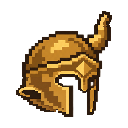
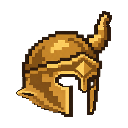
fix: 金・一本角の襟足と髪の接続を承認済みの形へ更新 (#131)

diff --git a/src/equipment-renderer.ts b/src/equipment-renderer.ts
@@ -6,6 +6,25 @@ interface ComposeOptions {
   mode?: "normal" | "ghost";
 }
 
+function drawHair(g: CanvasRenderingContext2D, hair: HTMLImageElement, item: Equipment): void {
+  const hairTop = figure.top + item.hairY;
+  if ("hairRoot" in item) {
+    const join = figure.ponytailJoinY;
+    const span = join - figure.ponytailRootY;
+    const { x, y } = item.hairRoot;
+    // Move only the root. The lower curl stays aligned with the original body.
+    g.save();
+    g.imageSmoothingEnabled = false;
+    g.transform(1, 0, -x / span, 1 - y / span, x * join / span, hairTop + y * join / span);
+    g.drawImage(hair, 0, 0, figure.width, join, 0, 0, figure.width, join);
+    g.restore();
+    g.drawImage(hair, 0, join, figure.width, hair.height - join,
+      0, hairTop + join, figure.width, hair.height - join);
+  } else {
+    g.drawImage(hair, 0, hairTop);
+  }
+}
+
 export async function composeEquipment(item: Equipment, options: ComposeOptions = {}): Promise<HTMLCanvasElement | null> {
   const { isCurrent = () => true, mode = "normal" } = options;
   const images = item.src === null
@@ -23,12 +42,23 @@ export async function composeEquipment(item: Equipment, options: ComposeOptions 
   if (item.src === null || mode === "ghost") {
     g.drawImage(images[0]!, 0, figure.top);
   } else {
-    g.drawImage(images[0]!, 0, figure.top + item.hairY);
+    drawHair(g, images[0]!, item);
     g.drawImage(images[1]!, 0, figure.top);
   }
   if (item.src !== null) {
     if (mode === "ghost") g.globalAlpha = .55;
     g.drawImage(images[images.length - 1]!, 0, 0);
+    if (mode === "normal" && "hairFrontClip" in item) {
+      // The rear rim sits behind this small section of the ponytail root.
+      // The rest of the helmet, including the cheek plate, remains in front.
+      g.save();
+      g.beginPath();
+      item.hairFrontClip.forEach(([x, y], index) => index ? g.lineTo(x, y) : g.moveTo(x, y));
+      g.closePath();
+      g.clip();
+      drawHair(g, images[0]!, item);
+      g.restore();
+    }
   }
   return result;
 }

diff --git a/src/equipment-data.ts b/src/equipment-data.ts
@@ -14,7 +14,7 @@ import hornedThumb from "./assets/equipment/thumbs/horned.png";
 import goldhornThumb from "./assets/equipment/thumbs/goldhorn.png";
 import blackredThumb from "./assets/equipment/thumbs/blackred.png";
 
-export const figure = { base, body, ponytail, top: 260, width: 1086, height: 1708 } as const;
+export const figure = { base, body, ponytail, top: 260, width: 1086, height: 1708, ponytailRootY: 405, ponytailJoinY: 540 } as const;
 export const equipmentThumbnailSize = { width: 128, height: 128 } as const;
 
 export const equipment = [
@@ -23,7 +23,13 @@ export const equipment = [
   { id: "purple", name: "黒金・紫の兜", detail: "紫の飾り毛と、金で縁取られた白い仮面。", src: purple, thumb: purpleThumb, hairY: 0 },
   { id: "goldred", name: "金・赤の兜", detail: "赤い飾り毛と金の面頬。", src: goldred, thumb: goldredThumb, hairY: -45 },
   { id: "horned", name: "銀・角付きの兜", detail: "下へ曲がる茶色の角と、耳・襟足まで覆う一体の銀板。", src: horned, thumb: hornedThumb, hairY: -45 },
-  { id: "goldhorn", name: "金・一本角の兜", detail: "先が右へ曲がる短い一本角と、襟足を覆う低く反った縁。", src: goldhorn, thumb: goldhornThumb, hairY: -40 },
+  {
+    id: "goldhorn", name: "金・一本角の兜",
+    detail: "先が右へ曲がる短い一本角と、襟足を覆う浅く反った縁。",
+    src: goldhorn, thumb: goldhornThumb, hairY: -40,
+    hairRoot: { x: 50, y: 30 },
+    hairFrontClip: [[350, 630], [430, 630], [450, 660], [455, 690], [445, 720], [390, 735], [350, 710]],
+  },
   { id: "blackred", name: "黒・赤い鶏冠の兜", detail: "高い赤の鶏冠状の飾りと、黒い面頬。", src: blackred, thumb: blackredThumb, hairY: 0 },
 ] as const;
 

diff --git a/docs/01_ゲーム企画・基本設計書.md b/docs/01_ゲーム企画・基本設計書.md
@@ -16,7 +16,7 @@
 - 着脱版の保存対象は人物と兜を合成した1086×1708の透過PNG。兜なしも同じキャンバスで、飾りが収まるよう上側に260pxの余白を持つ。
 - 着脱版の金・一本角は、採用した短い角と、銀・角付きに合わせた頭部サイズ・その後の約4%拡大を反映する。黒・赤は鶏冠を高くしたパーツを使う。
 - 着脱版の銀・角付き／金・一本角／黒・赤い鶏冠は、銀・青緑を目安に顎当ての下端を顎先より少し下へ出す。頭部サイズ・共通人物と黒・赤の鶏冠は維持する。金・一本角の角先と両兜の襟足は、次項の承認済み調整を適用する。元の画像切替版は別の全身素材を使う。
-- 着脱版の銀・角付きは耳と襟足を広く覆い、頬から襟足まで継ぎ目のない銀板としてつなげる。金・一本角は襟足の覆いと外へ反った縁を一緒に下げ、角先を画像の右へ少し曲げる。どちらも承認済みのパーツを使用し、頭部サイズ・顔の開口部・共通人物を維持する。
+- 着脱版の銀・角付きは耳と襟足を広く覆い、頬から襟足まで継ぎ目のない銀板としてつなげる。金・一本角は襟足の覆いと外へ反った縁を低い位置に置き、縁を浅くして襟足側の濃い茶色を抑える。角先は画像の右へ少し曲げる。通常の着用では髪の根元を奥側の縁より手前につなぎ、毛先の位置は保持する。どちらも承認済みのパーツを使用し、頭部サイズ・顔の開口部・共通人物を維持する。
 - サイズ比較ページは基準の顔と各兜の顔周りを同じ座標・倍率で並べる。通常表示と元の顔への半透明表示、頭頂・耳側・鼻先・目・顎の基準線のON/OFFを切り替えられる。基準線は表示サイズによらず一定の太さで重ねる。頭頂は髪を含む目安、縦線は元の顔の幅に固定する。
 - 比較対象は着脱版と同じ装備データから取得する。新しい兜を装備データへ追加すると、比較画面にも名前・画像・髪の位置が反映される。通常の合成処理も着脱版と共通にする。比較ページから装備画像を編集する機能は設けない。
 - 画像ごとの腰・足裏の基準を使って表示位置と大きさを調整する。スマートフォンでも操作できる。
@@ -45,6 +45,7 @@
 - 2026-11-20：調査用の顔と兜の比較画面を公開対象に追加する（#122、調査 #121）。装備データと合成を着脱版と共通化し、将来の兜追加も比較対象へ反映する。型検査・通常/Pages用ビルド、全6候補の通常/半透明表示と調査用画面の画素一致、1280/720/390px幅の全基準線、切替・キーボード・読込失敗/再試行、既存の切替/保存の維持を確認した。一時的な候補追加による両ページへの自動反映も確認し、テストデータは復元済み。公開URLでの確認はマージ後に行う。
 - 2026-11-21：銀・角付き／金・一本角／黒・赤い鶏冠の顎当て下端を、銀・青緑を目安に少し延長する（#124）。独立パーツとサムネイルを更新し、共通の着脱版・比較ページへ反映する。人物と頭部・飾りの大きさ、元の画像切替版は維持する。型検査・通常/Pages用ビルド、局所範囲外と継ぎ目付近の元画素の一致、全7状態の切替/保存、対象3種の比較表示との一致、基準線・狭い画面を確認した。公開URLへの反映はマージ後に確認する。
 - 2026-11-21：ユーザー承認済みの銀・角付き（耳と襟足を覆う継ぎ目なしの銀板）と金・一本角（襟足と反った縁を下げ、角先を右へ曲げる）を正式反映する（#126・#128）。独立パーツとサムネイルを更新し、共通の着脱版・比較ページへ反映する。元の全身画像切替版は別素材のまま維持する。採用元とアプリ用PNGの一致、型検査・通常/Pagesビルド、全7状態の切替/保存、承認済み合成と比較表示の画素一致、サムネイル・通常/半透明・基準線・390px幅を確認した。公開URLへの反映はマージ後に確認する。
+- 2026-11-21：金・一本角の襟足と髪の接続を、比較画像で承認された形へ更新する（#131）。浅い縁と金色になじませた襟足のパーツを採用し、髪の根元だけを補正して後ろの縁より手前に重ねる。毛先・人物・前側の兜と他の装備は維持する。型検査・通常/Pagesビルド、全7状態の切替/保存、通常表示と保存PNGの承認画像との画素一致、半透明比較の維持・基準線・390px幅を確認した。公開URLへの反映はマージ後に確認する。
 - 戦闘の構想や承認履歴は過去資料とGit履歴に保存する。現行の装備室の制約や次の作業として自動的に引き継がない。将来戦闘を再開する場合は、その時点で参照する。
 
 ## 14. 現在の状態と次の検討
@@ -54,6 +55,7 @@
 - #122 で顔と兜の比較画面を追加する。装備データ・合成処理を共有し、基準線・表示切替・新しい兜の自動反映を確認済み。公開後の確認は対応Issueに残す。
 - #124 で3種類の顎当て下端を調整する。元の顔に重ねた比較・変更範囲・着脱/比較ページ・保存を確認済み。公開URLへの反映はマージ後に確認し、対応Issueへ記録する。
 - #126・#128 の最新版はユーザーが比較画像を確認し、正式反映を承認済み。採用パーツの一致・着脱/比較表示・保存・サムネイルを確認済み。レビューと公開後の確認は対応Issueに記録する。
+- #131 の浅い縁・襟足の色と、髪の根元を奥側の縁より手前につなぐ着用画像はユーザー承認済み。通常表示と保存PNGが最終承認合成と画素一致することを確認済み。レビュー・公開結果は対応Issueに記録する。
 - 以前の追加と確認の記録は §12 を参照。画像間のドット単位の完全一致と史実の装備構造は未検証。
 - 他のLLMへ渡す [引き継ぎ資料](装備室_引き継ぎ.md) と [依頼テンプレート](装備室_依頼テンプレート.md) を用意済み。
 - #117 で元の画像切替版と別の装備着脱版を用意した。切替・着脱・保存・読込失敗・Pages用ビルドのブラウザ確認は完了し、結果をIssueに記録した。公開配信も確認済みでIssueに記録した。比較後にどちらを主にするかは未決定。
